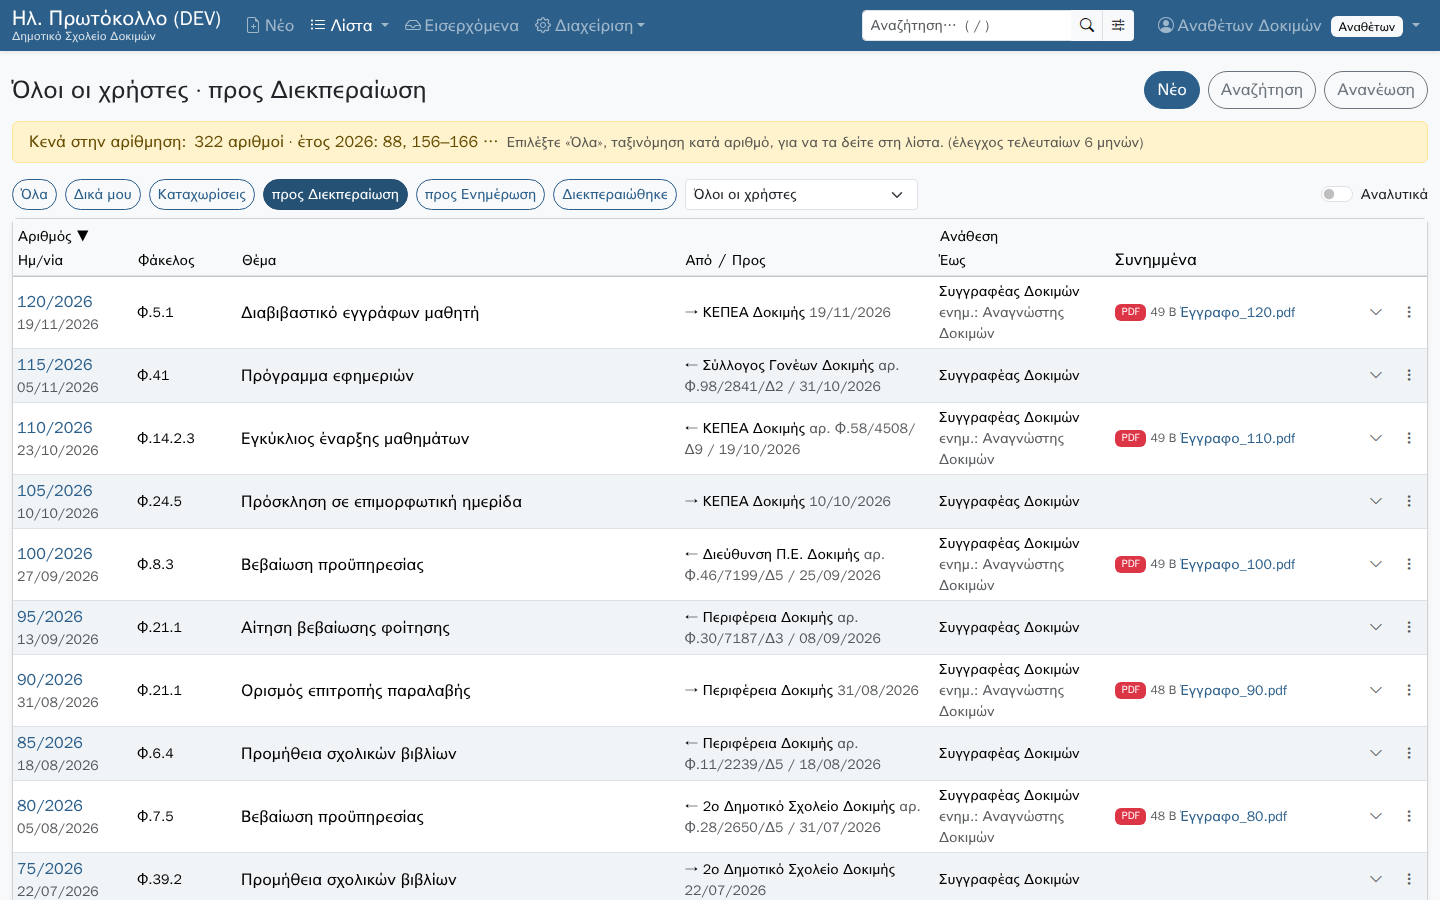
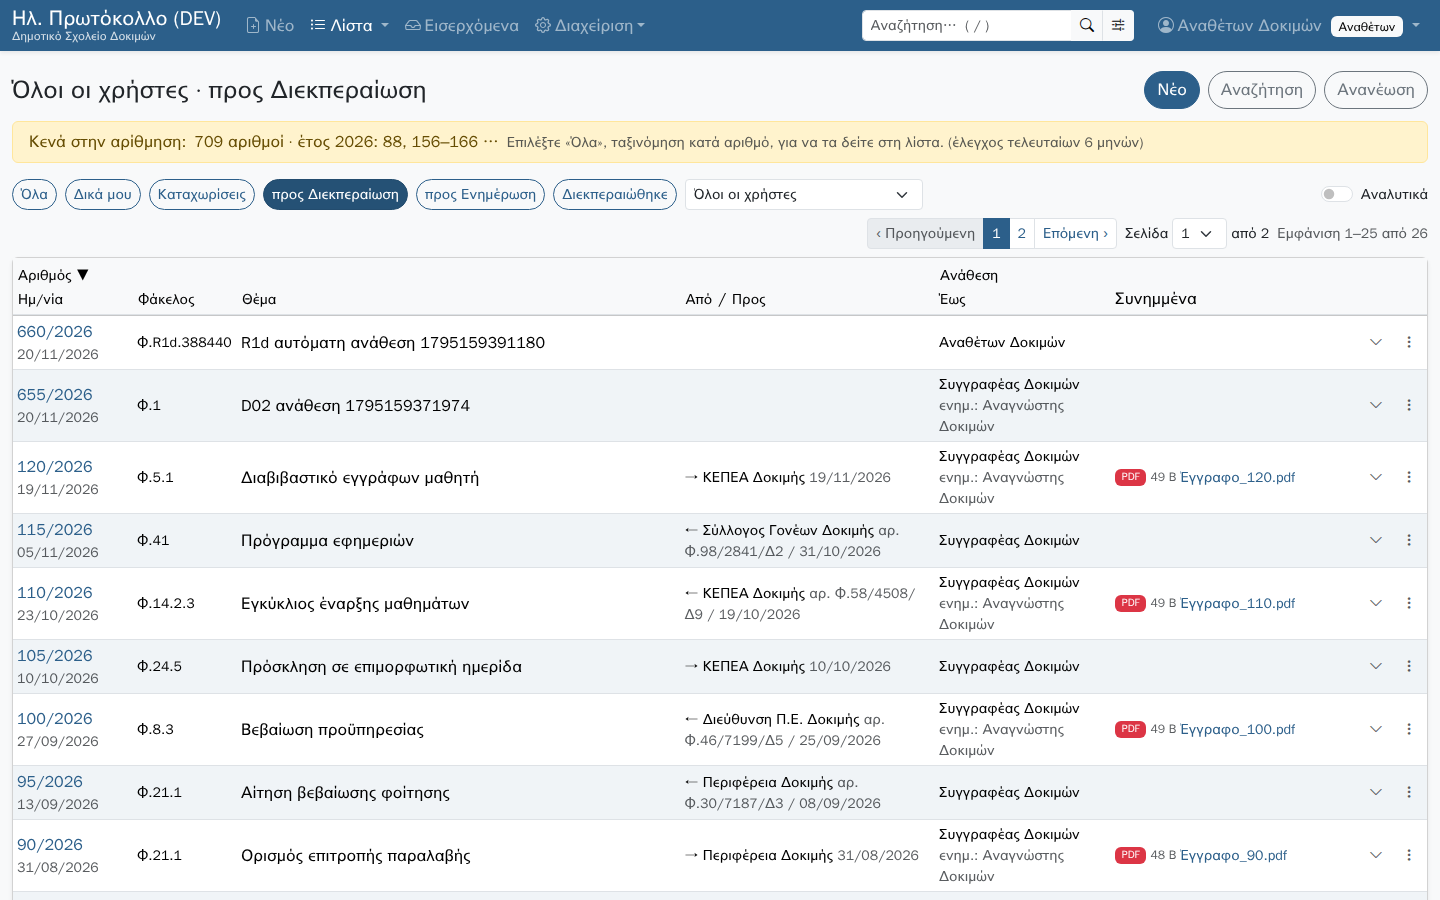
R2i review: narrower fixed columns under 1200px, so the subject keeps room at 768px

diff --git a/e2e/tests/protocol-list.spec.js b/e2e/tests/protocol-list.spec.js
@@ -333,4 +333,15 @@ test('rows in alternating colours, fixed column widths, each row short until ▾
   await expect(page.locator('.protocol-row:not(.row-open)')).toHaveCount(0);
   await expect(toggle).toBeHidden();
   await page.locator('#list-detailed').uncheck();
+
+  // review of R2i: on medium screens the subject keeps a readable width
+  for (const width of [768, 992, 1024]) {
+    await page.setViewportSize({ width, height: 800 });
+    const subjectWidth = (await page.locator('.protocol-table thead th').nth(2).boundingBox()).width;
+    expect(subjectWidth, `subject column at ${width} px`).toBeGreaterThan(200);
+    const fits = await page.locator('.protocol-table').evaluate((t) => t.getBoundingClientRect().right <= t.parentElement.getBoundingClientRect().right + 1);
+    expect(fits, `the table inside its frame at ${width} px`).toBe(true);
+    expect(await page.evaluate(() => document.documentElement.scrollWidth), `no sideways scroll at ${width} px`).toBeLessThanOrEqual(width);
+  }
+  await evidence(page, 'r2i-list-768', { clip: { x: 0, y: 0, width: 1024, height: 600 } });
 });

diff --git a/resources/modern/app.scss b/resources/modern/app.scss
@@ -193,6 +193,13 @@ body.sorting .form-zone { min-height: 4rem; outline: 2px dashed rgba(var(--bs-pr
 .protocol-table .col-assign { width: 11rem; }
 .protocol-table .col-files { width: 15rem; }
 .protocol-table .col-actions { width: 4.75rem; }
+// review of R2i: on medium screens the fixed columns are narrower, so the subject keeps room (≥ 14rem at 768px)
+@media (max-width: 1199.98px) {
+    .protocol-table .col-number { width: 6.5rem; }
+    .protocol-table .col-folder { width: 4.5rem; }
+    .protocol-table .col-assign { width: 8rem; }
+    .protocol-table .col-files { width: 8rem; }
+}
 .protocol-table td { overflow-wrap: anywhere; }
 .protocol-row:not(.row-open) .row-clamp { display: -webkit-box; -webkit-line-clamp: 2; -webkit-box-orient: vertical; overflow: hidden; }
 .protocol-row:not(.row-open) .attachment-name:nth-child(n+3) { display: none !important; }

diff --git a/docs/reports/R2i.md b/docs/reports/R2i.md
@@ -52,3 +52,12 @@
 
 ## Owner actions
 None. To try it: step 41 in [OWNER-TODO.md](../../OWNER-TODO.md).
+
+## Review
+- Codex (P2): at 768px the fixed columns left about 26px for the subject.
+  - Fixed: under 1200px the number, folder, assignment and attachments columns are narrower (6.5, 4.5, 8 and 8rem).
+    The subject keeps about 230px at 768px and about 280px at 992px.
+  - Browser test (R2i) at 768, 992 and 1024px checks that the subject column is over 200px wide, the table fits its
+    frame, and nothing is wider than the screen. It failed before, with 26px.
+
+![The list at 1024px](img/R2i/r2i-list-768.png)
